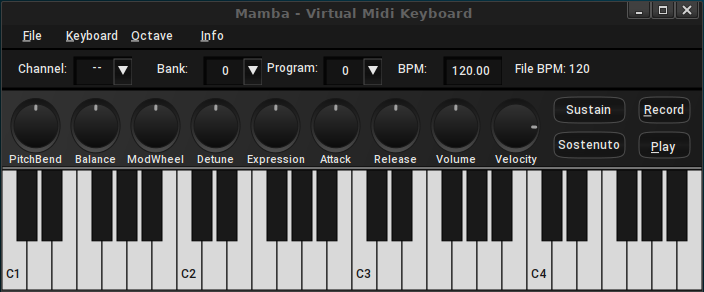
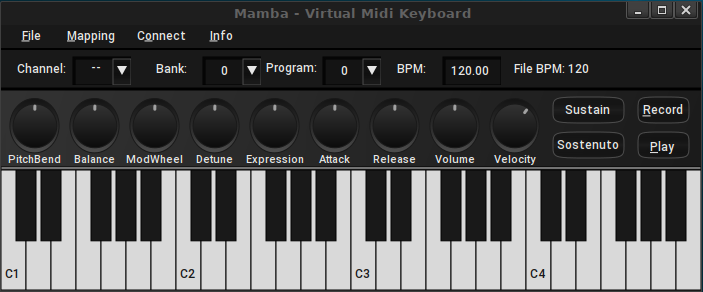
Update Readme, update sreenshot

diff --git a/README.md b/README.md
@@ -8,32 +8,36 @@ Virtual Midi Keyboard and Midi file player/recorder for Jack Audio Connection Ki
 
 - Virtual Midi Keyboard for [Jack Audio Connection Kit](https://jackaudio.org/)
 - Including [NSM](https://linuxaudio.github.io/new-session-manager/) support
+- Including [gettext](https://www.gnu.org/software/gettext/) localization support
 - Channel selector
 - Bank and Program selector
-- Keyboard mapping for qwertz, qwerty and azerty selectable from menu
+- Keyboard mapping for qwertz, qwerty, azerty(fr) and azerty(be) selectable from menu
+- Keymap Editor to setup a custom Keymap
 - PC Keyboard mapping selector from C0 to C4
 - Pitchbend, Balance, Modwheel, Detune, Expression, Attack, Release, Volume and Velocity controllers
 - Sustain and Sostenuto switches
-- BPM controller
+- Connection management Menu
+- Support Midi-file load, save, record and play in loop
+- BPM controller for playback speed
+- Support Midi Beat Clock for playback speed
 - Midi Through: forward midi input to output
 - Midi input highlighting
 - Resizable to a full range 127 key view
-- Save and load Midi-files
 - Load Midi-files on command-line
-- Record and play Midi-Loops
 - Support jack_transport to start/stop Midi-Loops
-- Support Midi Beat Clock
 - Keyboard Shortcuts
 - `ctrl + r` toggle Record Button
 - `ctrl + p` toggle Play Button
 - `ctrl + l` open load file dialog
 - `ctrl + s` open save file dialog
 - `ctrl + a` show info box
+- `ctrl + k` show Keymap Editor
 - `ctrl + q` quit
 - `ctrl + c` quit
 
 ## Dependencies
 
+- libc6-dev
 - libsmf-dev
 - libcairo2-dev
 - libx11-dev
@@ -47,3 +51,11 @@ Virtual Midi Keyboard and Midi file player/recorder for Jack Audio Connection Ki
 - git submodule update
 - make
 - sudo make install # will install into /usr/bin
+
+## Build with localization support
+
+- git submodule init
+- git submodule update
+- make nls
+- sudo make install # will install into /usr/bin
+
